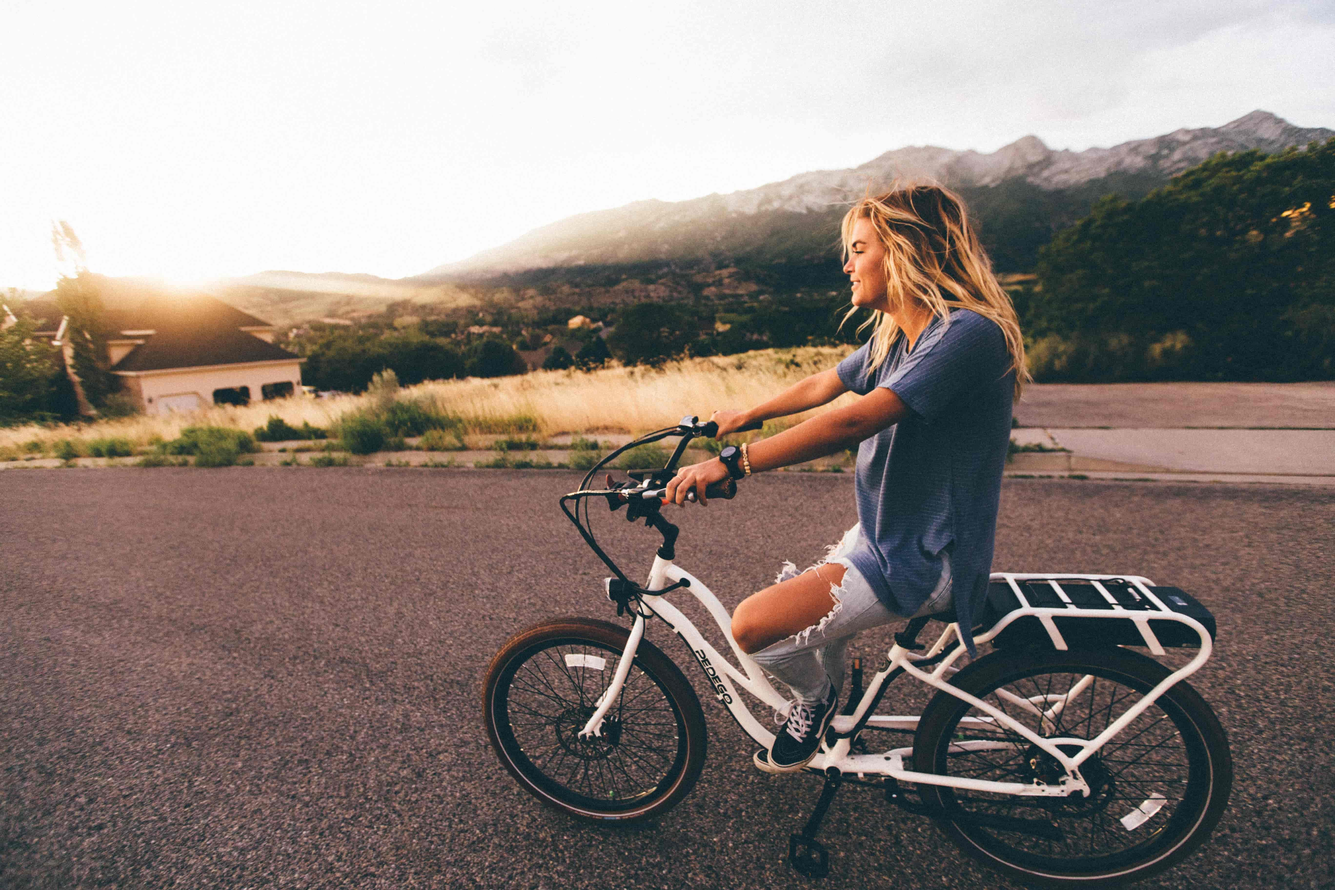
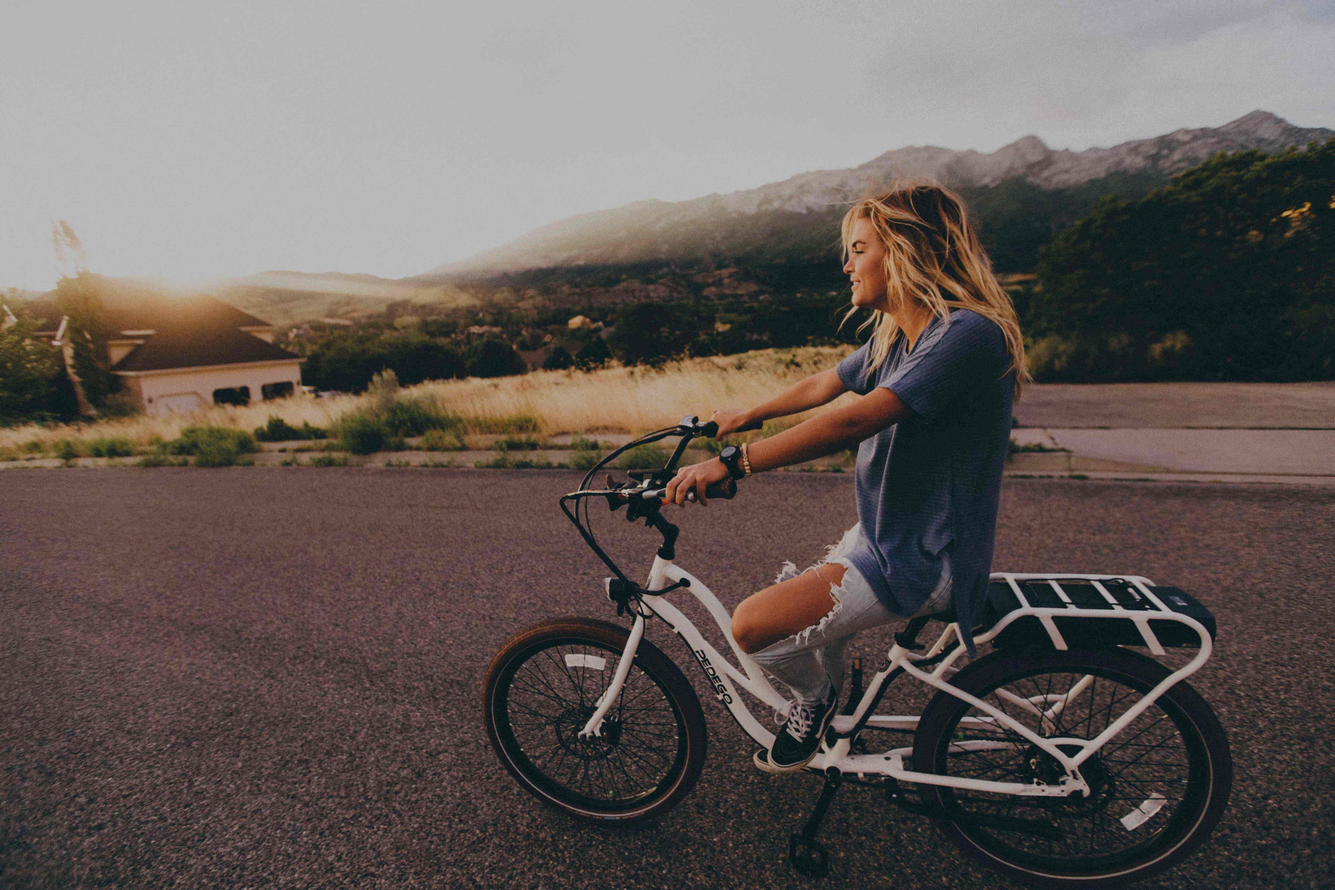
Create separator for testimonials, fix form, adjust opacity images

diff --git a/index.html b/index.html
@@ -176,6 +176,17 @@
 				</div>
 			</section>
 
+			<!-- Separador -->
+				<section id="quote" class="wrapper style1 special">
+					<div class="inner">
+						<div class="stats">
+							<article>
+								<h2 class="section-title"></h2>
+							</article>
+						</div>
+					</div>
+				</section>
+
 			<!-- Testimonios -->
 				<section id="testimonios" class="quotes">
 					<article class="icon fa-quote-left">
@@ -203,7 +214,7 @@
 					</article>
 					<article class="icon fa-quote-left">
 						<span class="image"><img src="images/pic06.jpg" alt="" data-position="left" /></span>
-						<h4>"Empecé a ir al gimnasio a principios del año pasado. Por más que entrenaba y trataba de comer "saludable", no lograba los resultados que quería. Cuando comencé el programa con Esteban y Felipe, en tan solo la primera semana logré bajar un kilo. Éste fue el impulso adicional que necesitaba para lograr mis resultados. Con el programa de FitMe, aprendí a comer balanceado, disfrutando aún así "un dulce" diario y logrando mis objectivos."</h4>
+						<h4>"Empecé a ir al gimnasio a principios del año pasado. Por más que entrenaba y trataba de comer "saludable", no lograba los resultados que quería. Cuando comencé el programa con Esteban y Felipe, en tan solo la primera semana logré bajar un kilo. Éste fue el impulso adicional que necesitaba para lograr mis resultados. Con el programa de FitMe, aprendí a comer balanceado, disfrutando aún así "un dulce" diario y logrando mis objetivos."</h4>
 						<div class="author">
 							<span class="name">Mónica M.</span>
 						</div>
@@ -248,9 +259,12 @@
 								<div class="field">
 									<textarea name="message" id="message" rows="6" placeholder="Mensaje"></textarea>
 								</div>
+								<div class="field">
+									<p>Al dar click en "Enviar", autorizo a FitMe para que conserven la información aquí suministrada y me contacten con el fin de ofrecerme sus productos y servicios.</p>
+								</div>
 							</div>
 							<ul class="actions">
-								<li><input value="Send Message" class="button" type="submit" /></li>
+								<li><input value="Enviar" class="button" type="submit" /></li>
 							</ul>
 						</form>
 					</div>

diff --git a/assets/css/main.css b/assets/css/main.css
@@ -2430,7 +2430,7 @@ input, select, textarea {
 				.quotes > article .author .name {
 					color: #f5a800;
 					display: block;
-					font-size: 1.4em;
+					font-size: 1.8em;
 					font-weight: 400;
 					margin: 0 0 0.5em 0;
 				}
@@ -2849,6 +2849,10 @@ input, select, textarea {
 
 				form > .fields > .field.quarter {
 					width: calc(25% - 0.375em);
+				}
+
+				form .field p {
+					margin-bottom: 0;
 				}
 
 		@media screen and (max-width: 480px) {
@@ -4889,7 +4893,7 @@ input, select, textarea {
 	#footer {
 		background-color: #fff;
 		color: #333333;
-		padding: 7.5em 0 5.5em 0 ;
+		padding: 7.5em 0 2.5em 0 ;
 		background-color: #fff;
 	}
 
